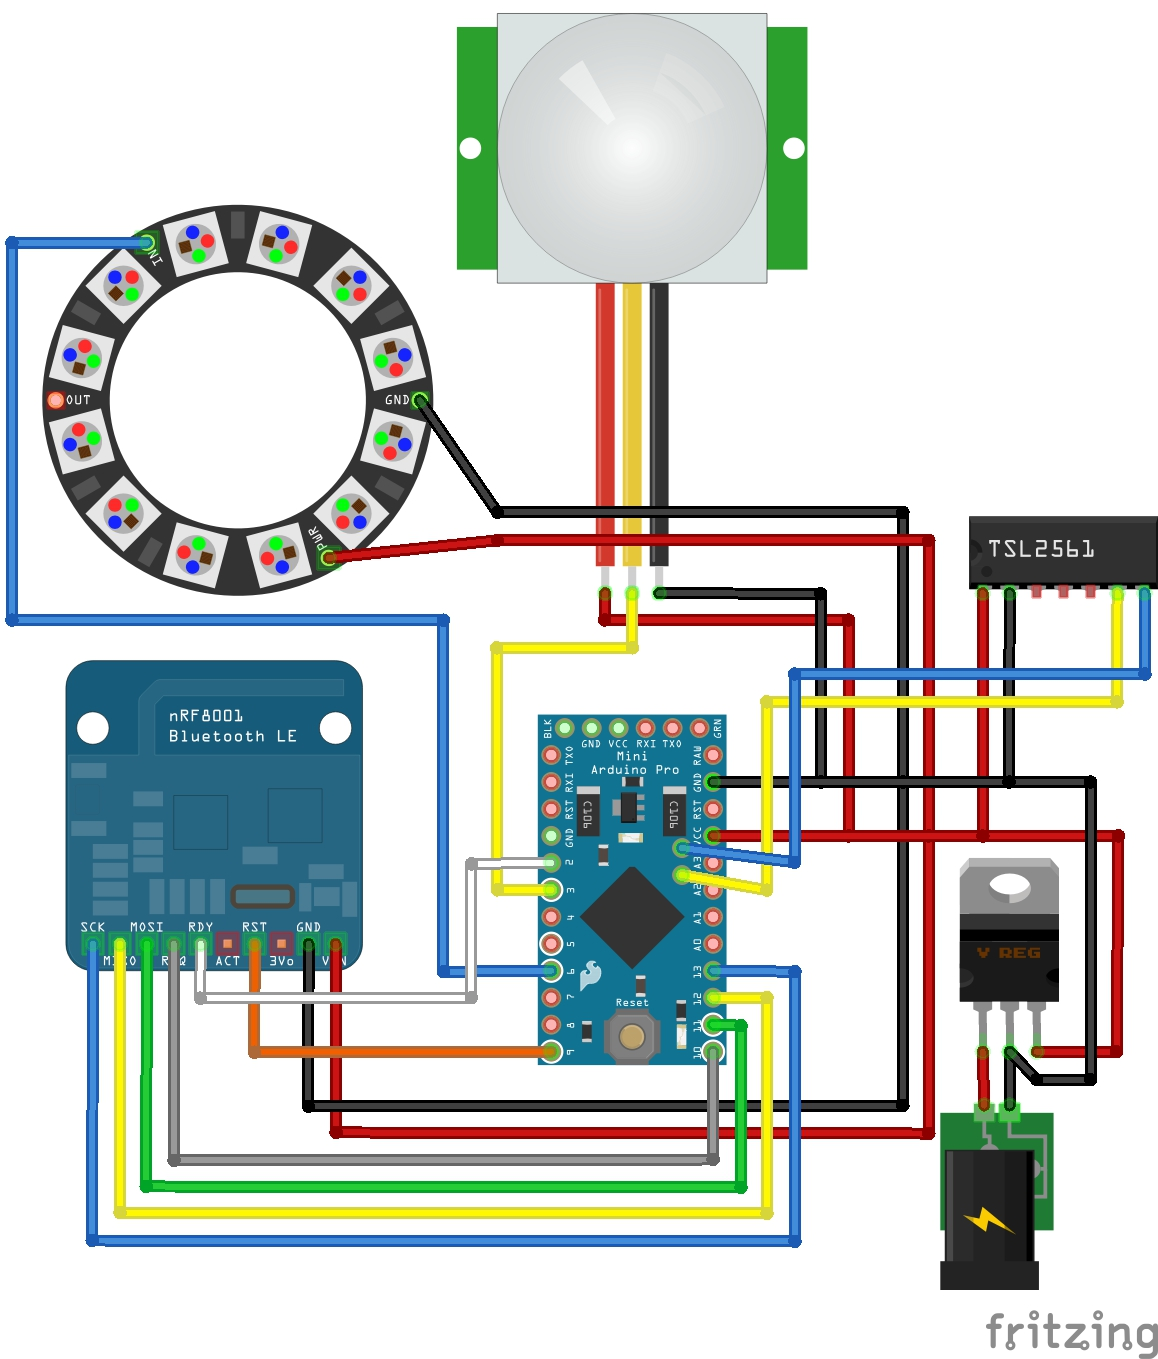
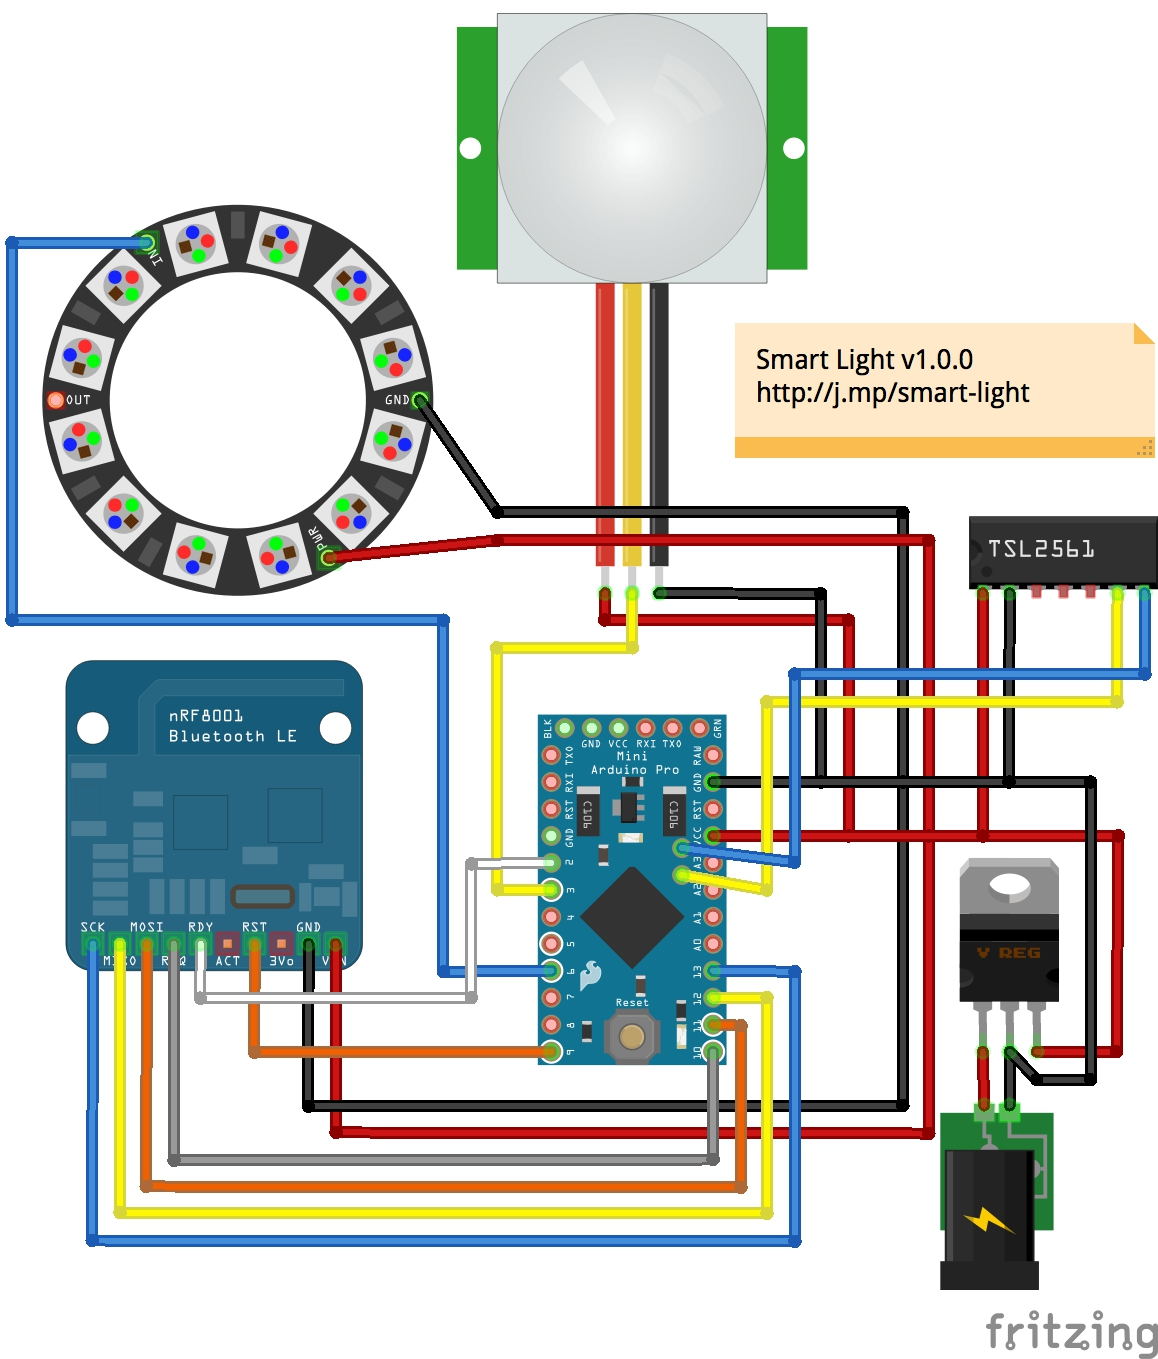
Update README and Wiring Image

Changed region(s): [[0.6218, 0.2163, 1.0, 0.34], [0.0933, 0.6799, 0.6528, 0.8962]]

diff --git a/README.md b/README.md
@@ -1,6 +1,6 @@
 ![smart light](assets/header.jpg "smart light")
 
-# Smart Light
+# Smart Light v1.0.0
 
 #### Smart Light ( Arduino Sketch, Fritzing Schematic &amp; Mobile App )
 
@@ -13,12 +13,12 @@ Parts List
 
 #### You will need to purchase the following hardware:
 
-* [Arduino Pro Mini 328 - 5V/16 MHz](https://www.adafruit.com/products/2378?utm_medium=referral&utm_source=manifestinteractive)
-* [PIR (motion) sensor](https://www.adafruit.com/products/189?utm_medium=referral&utm_source=manifestinteractive)
-* [NeoPixel Ring - 12 x WS2812 5050 RGB LED with Integrated Drivers](https://www.adafruit.com/products/1643?utm_medium=referral&utm_source=manifestinteractive)
-* [Adafruit TSL2561 Digital Luminosity/Lux/Light Sensor Breakout](https://www.adafruit.com/products/439?utm_medium=referral&utm_source=manifestinteractive)
-* [Bluefruit LE - Bluetooth Low Energy (BLE 4.0) - nRF8001 Breakout - v1.0](https://www.adafruit.com/products/1697?utm_medium=referral&utm_source=manifestinteractive)
-* [Mini DC/DC Step-Down (Buck) Converter - 5V @ 1A output - TSR12450](https://www.adafruit.com/products/1065?utm_medium=referral&utm_source=manifestinteractive)
+* `ARD` [Arduino Pro Mini 328 - 5V/16 MHz](https://www.adafruit.com/products/2378?utm_medium=referral&utm_source=manifestinteractive)
+* `PIR` [PIR (motion) sensor](https://www.adafruit.com/products/189?utm_medium=referral&utm_source=manifestinteractive)
+* `NEO` [NeoPixel Ring - 12 x WS2812 5050 RGB LED with Integrated Drivers](https://www.adafruit.com/products/1643?utm_medium=referral&utm_source=manifestinteractive)
+* `LUX` [Adafruit TSL2561 Digital Luminosity/Lux/Light Sensor Breakout](https://www.adafruit.com/products/439?utm_medium=referral&utm_source=manifestinteractive)
+* `BLU` [Bluefruit LE - Bluetooth Low Energy (BLE 4.0) - nRF8001 Breakout - v1.0](https://www.adafruit.com/products/1697?utm_medium=referral&utm_source=manifestinteractive)
+* `SDC` [Mini DC/DC Step-Down (Buck) Converter - 5V @ 1A output - TSR12450](https://www.adafruit.com/products/1065?utm_medium=referral&utm_source=manifestinteractive)
 
 #### Optional Parts:
 
@@ -33,5 +33,26 @@ I found it was actually cheaper to just get an existing Motion Light and replace
 
 Wiring Instructions
 ---
+
+| Part     | Pin    |    | Part | Pin  | Cable  |
+| -------- | ------ | -- | ---- | ---- | ------ |
+| __PIR__  | Red    | -> | ARD  | VCC  | Red    |
+| PIR      | Yellow | -> | ARD  | 3    | Yellow |
+| PIR      | Black  | -> | ARD  | GND  | Black  |
+| __NEO__  | PWR    | -> | ARD  | VCC  | Red    |
+| NEO      | IN     | -> | ARD  | 6    | Blue   |
+| NEO      | GND    | -> | ARD  | GND  | Black  |
+| __LUX__  | VIN    | -> | ARD  | VCC  | Red    |
+| LUX      | GND    | -> | ARD  | GND  | Black  |
+| LUX      | SDA    | -> | ARD  | A4   | Yellow |
+| LUX      | SCL    | -> | ARD  | A5   | Blue   |
+| __BLU__  | SCK    | -> | ARD  | 13   | Blue   |
+| BLU      | MISO   | -> | ARD  | 12   | Yellow |
+| BLU      | MOSI   | -> | ARD  | 11   | Orange |
+| BLU      | REQ    | -> | ARD  | 10   | Grey   |
+| BLU      | RDY    | -> | ARD  | 2    | White  |
+| BLU      | RST    | -> | ARD  | 9    | Orange |
+| BLU      | GND    | -> | ARD  | GND  | Black  |
+| BLU      | VIN    | -> | ARD  | VCC  | Red    |
 
 ![wiring](fritzing/exports/smart_light.jpg "wiring")
